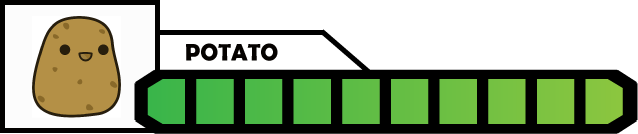
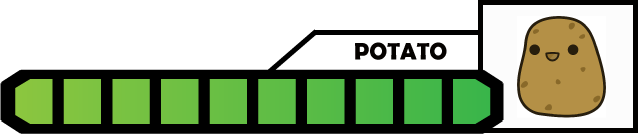
add potato health

diff --git a/potatoes/src/main/java/com/deco2800/potatoes/renderering/Render3D.java b/potatoes/src/main/java/com/deco2800/potatoes/renderering/Render3D.java
@@ -369,7 +369,7 @@ public class Render3D implements Renderer {
 			AbstractEntity e = entity.getKey();
 
 			// Progress Bars for players.
-			if (!progressValues.showPlayerProgress() && e.equals(GameManager.get().getManager(PlayerManager.class).getPlayer())) {
+			if (e.equals(GameManager.get().getManager(PlayerManager.class).getPlayer())) {
 				continue;
 			}
 			
@@ -389,6 +389,10 @@ public class Render3D implements Renderer {
 				continue;
 			}
 
+			if (e instanceof GoalPotate) {
+				potato = (GoalPotate) e;
+			}
+			
 			if (e instanceof HasProgressBar && ((HasProgress) e).showProgress()) {
 
 				Vector2 isoPosition = worldToScreenCoordinates(e.getPosX(), e.getPosY(), e.getPosZ());
@@ -399,11 +403,6 @@ public class Render3D implements Renderer {
 				if (progressBar != null) {
 
 					Texture barTexture = reg.getTexture(progressBar.getTexture());
-
-					// Skip for player
-					if (e.equals(GameManager.get().getManager(PlayerManager.class).getPlayer())) {
-						continue;
-					}
 					
 					// sets colour palette
 					batch.setColor(progressBar.getColour(((HasProgress) e).getProgressRatio()));
@@ -458,15 +457,52 @@ public class Render3D implements Renderer {
 			// Render the player health HUD
 			hudBatch.begin();
 			hudBatch.setColor(Color.WHITE);
-			hudBatch.draw(iconTexture, 25, Gdx.graphics.getHeight()-134/2-75, 638/2, 134/2, 1, 2, iconTexture.getWidth(), iconTexture.getHeight(), false, false);
+			hudBatch.draw(iconTexture, 25+75, Gdx.graphics.getHeight()-134/2-75 + 60, 638/2, 134/2, 0, 0, iconTexture.getWidth(), iconTexture.getHeight(), false, false);
 			
 			// Draw the player HealthBar
 			float barRatio = player.getProgressRatio();
 			float maxBarWidth = 638/2.55f;
 			float barWidth = maxBarWidth * barRatio;
 			float barBackgroundWidth = maxBarWidth * (1 - barRatio);
-			float barX = 93;
-			float barY = Gdx.graphics.getHeight()-134/2-73.5f;
+			float barX = 93+75;
+			float barY = Gdx.graphics.getHeight()-134/2-73.5f + 60;
+			float endX = barX + barWidth;
+			// Draw amount of health left.
+			hudBatch.draw(barTexture, barX, barY,                        // texture, x, y
+					barWidth, maxBarWidth / 8, 0, 0,                // width, height srcX, srcY
+					(int) (barTexture.getWidth() * barRatio),        // srcWidth
+					barTexture.getHeight(),                            // srcHeight
+					false, false);                                    // flipX, flipY
+			// Draw amount of health lost.
+			hudBatch.setColor(0.5f, 0.5f, 0.5f, 1f);
+			hudBatch.draw(barTexture, endX, barY,                            // texture, x, y
+					barBackgroundWidth, maxBarWidth / 8,                // width, height
+					(int) (barTexture.getWidth() * barRatio), 0,        // srcX, srcY
+					(int) (barTexture.getWidth() * (1 - barRatio)),        // srcWidth
+					barTexture.getHeight(),                                // srcHeight
+					false, false);  
+			hudBatch.end();
+		}
+		// potato
+		if (potato != null && progressValues.showPotatoProgress()) {
+			// Get texture
+			ProgressBar progressBar = player.getProgressBar();
+			Texture iconTexture = reg.getTexture(potato.getProgressBar().getLayoutTexture());
+			Texture barTexture =  reg.getTexture(potato.getProgressBar().getTexture());
+			// Render the player health HUD
+			hudBatch.begin();
+			hudBatch.setColor(Color.WHITE);
+			hudBatch.draw(iconTexture, Gdx.graphics.getWidth() - (25+75)-75 - 638/2.55f, 
+					Gdx.graphics.getHeight()-134/2-75 + 60, 638/2, 134/2, 0, 0, iconTexture.getWidth(),
+					iconTexture.getHeight(), false, false);
+			
+			// Draw the player HealthBar
+			float barRatio = potato.getProgressRatio();
+			float maxBarWidth = 638/2.55f;
+			float barWidth = maxBarWidth * barRatio;
+			float barBackgroundWidth = maxBarWidth * (1 - barRatio);
+			float barX = Gdx.graphics.getWidth() - (93+80) - 638/2.55f;
+			float barY = Gdx.graphics.getHeight()-134/2-73.5f + 60;
 			float endX = barX + barWidth;
 			// Draw amount of health left.
 			hudBatch.draw(barTexture, barX, barY,                        // texture, x, y

diff --git a/potatoes/src/main/java/com/deco2800/potatoes/entities/GoalPotate.java b/potatoes/src/main/java/com/deco2800/potatoes/entities/GoalPotate.java
@@ -17,7 +17,7 @@ public class GoalPotate extends MortalEntity implements HasProgressBar {
 	
 	private static final transient String TEXTURE = "potate";
 
-	private static final ProgressBarEntity PROGRESS_BAR = new ProgressBarEntity("healthBarGreen", 2);
+	private static final ProgressBarEntity PROGRESS_BAR = new ProgressBarEntity("healthBarGreen", "potatoIcon", 2);
 
 	public GoalPotate() {
 		// empty for serialization
